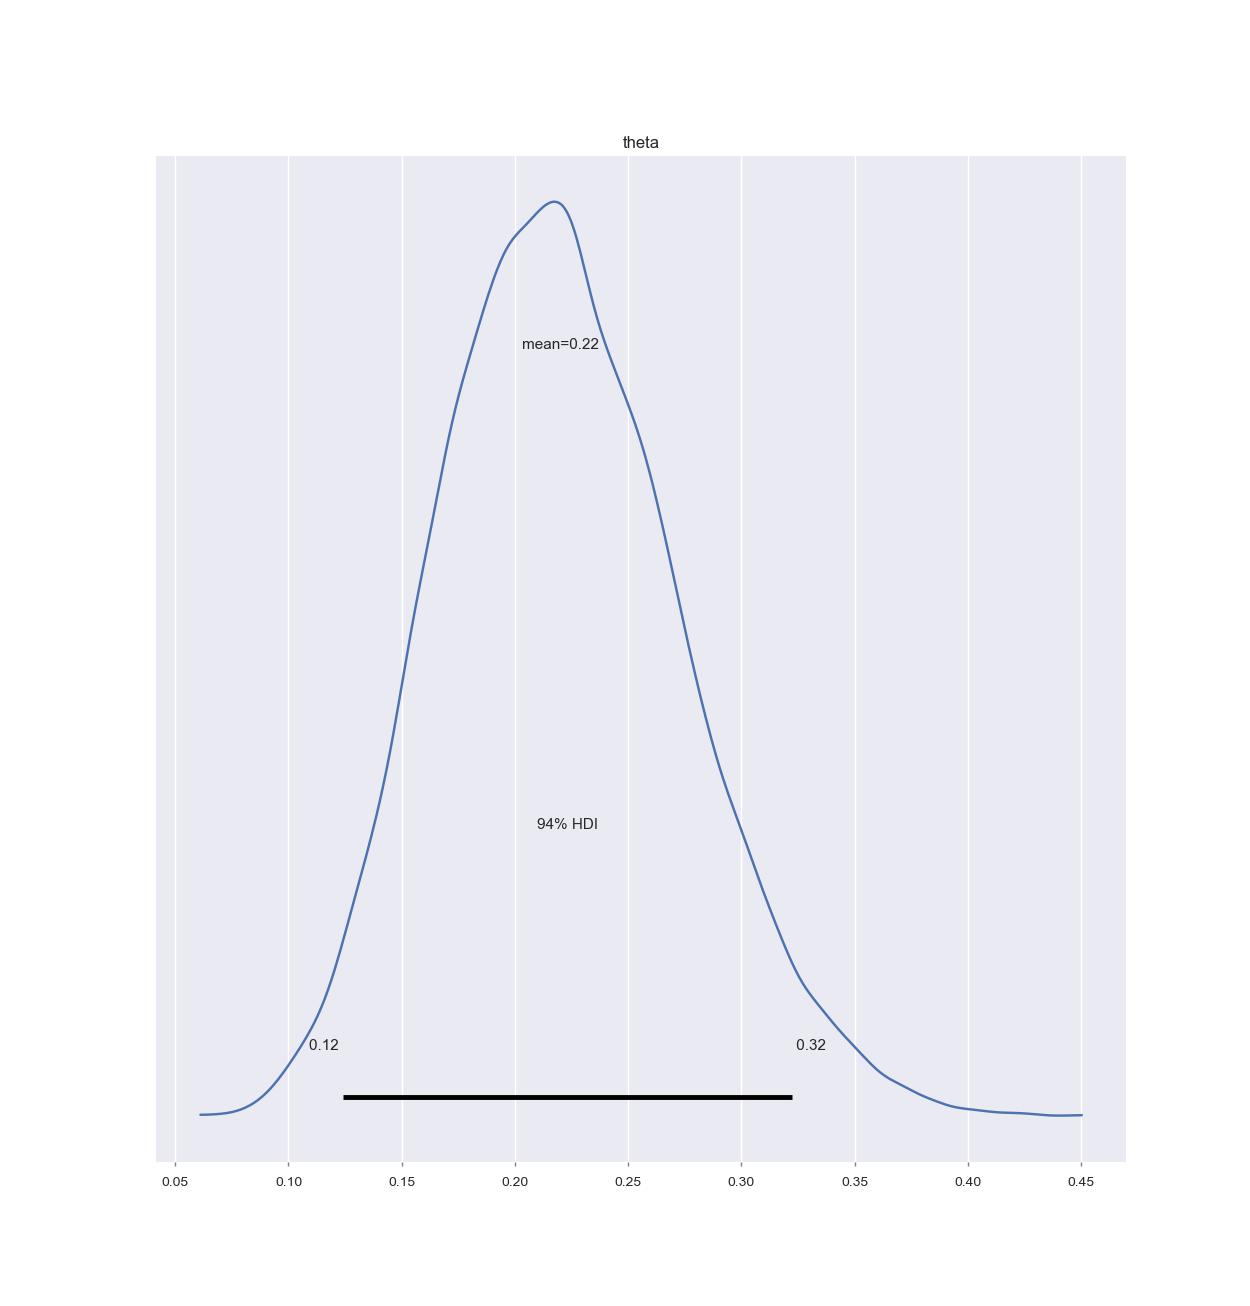
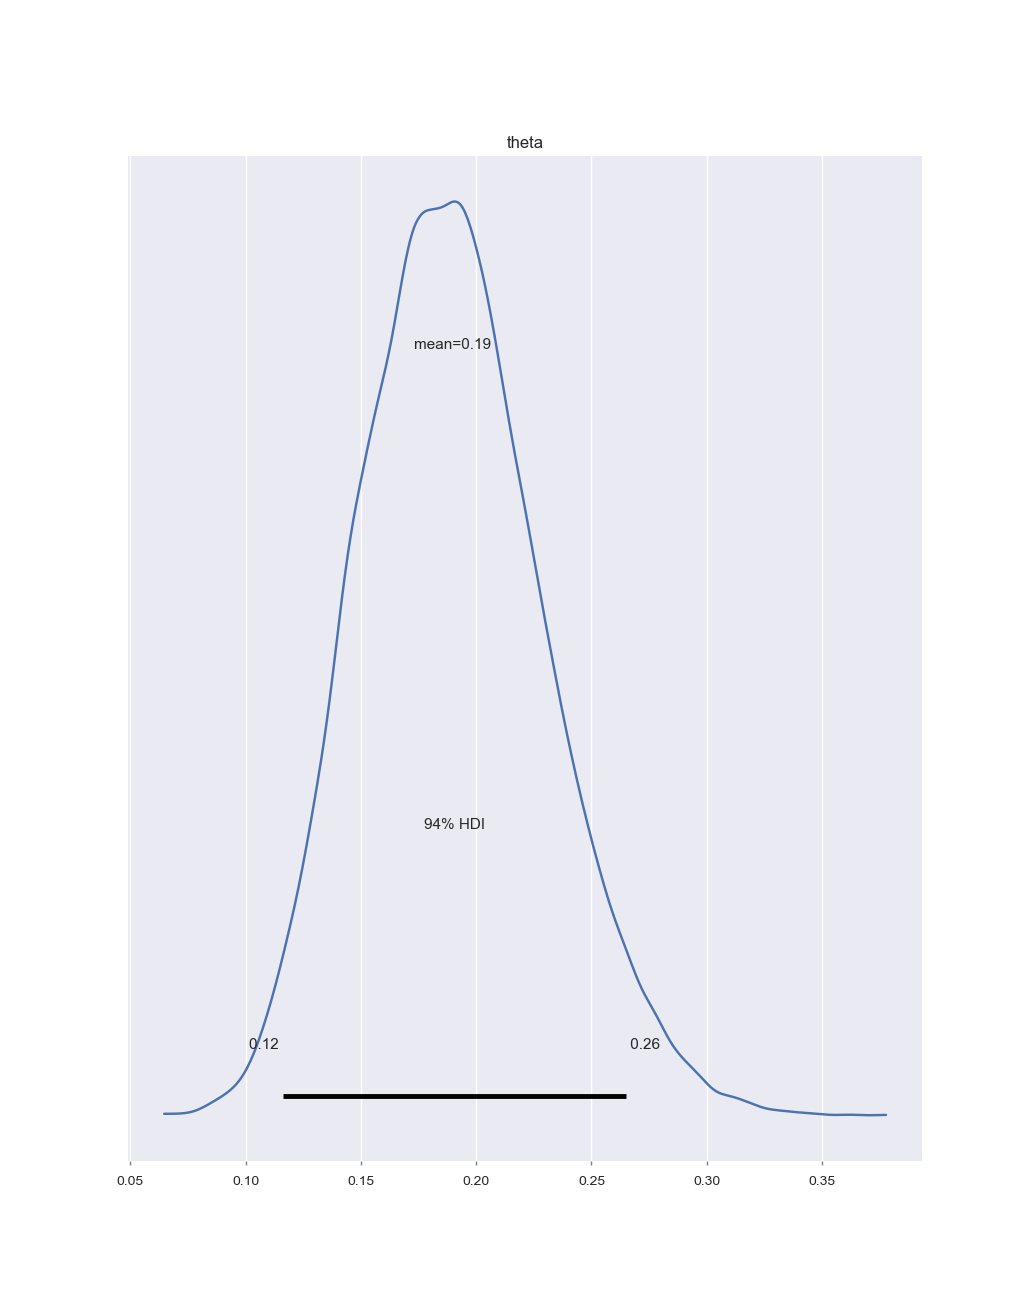
⚡ Update data

diff --git a/rubbel.py b/rubbel.py
@@ -29,6 +29,8 @@ DATA = np.array([
     [0, 6],
     [0, 4],
     [1, 4],
+    [0, 4],
+    [0, 7], # 2022-06-17 11:43
 ])
 
 plt.style.use("seaborn")
